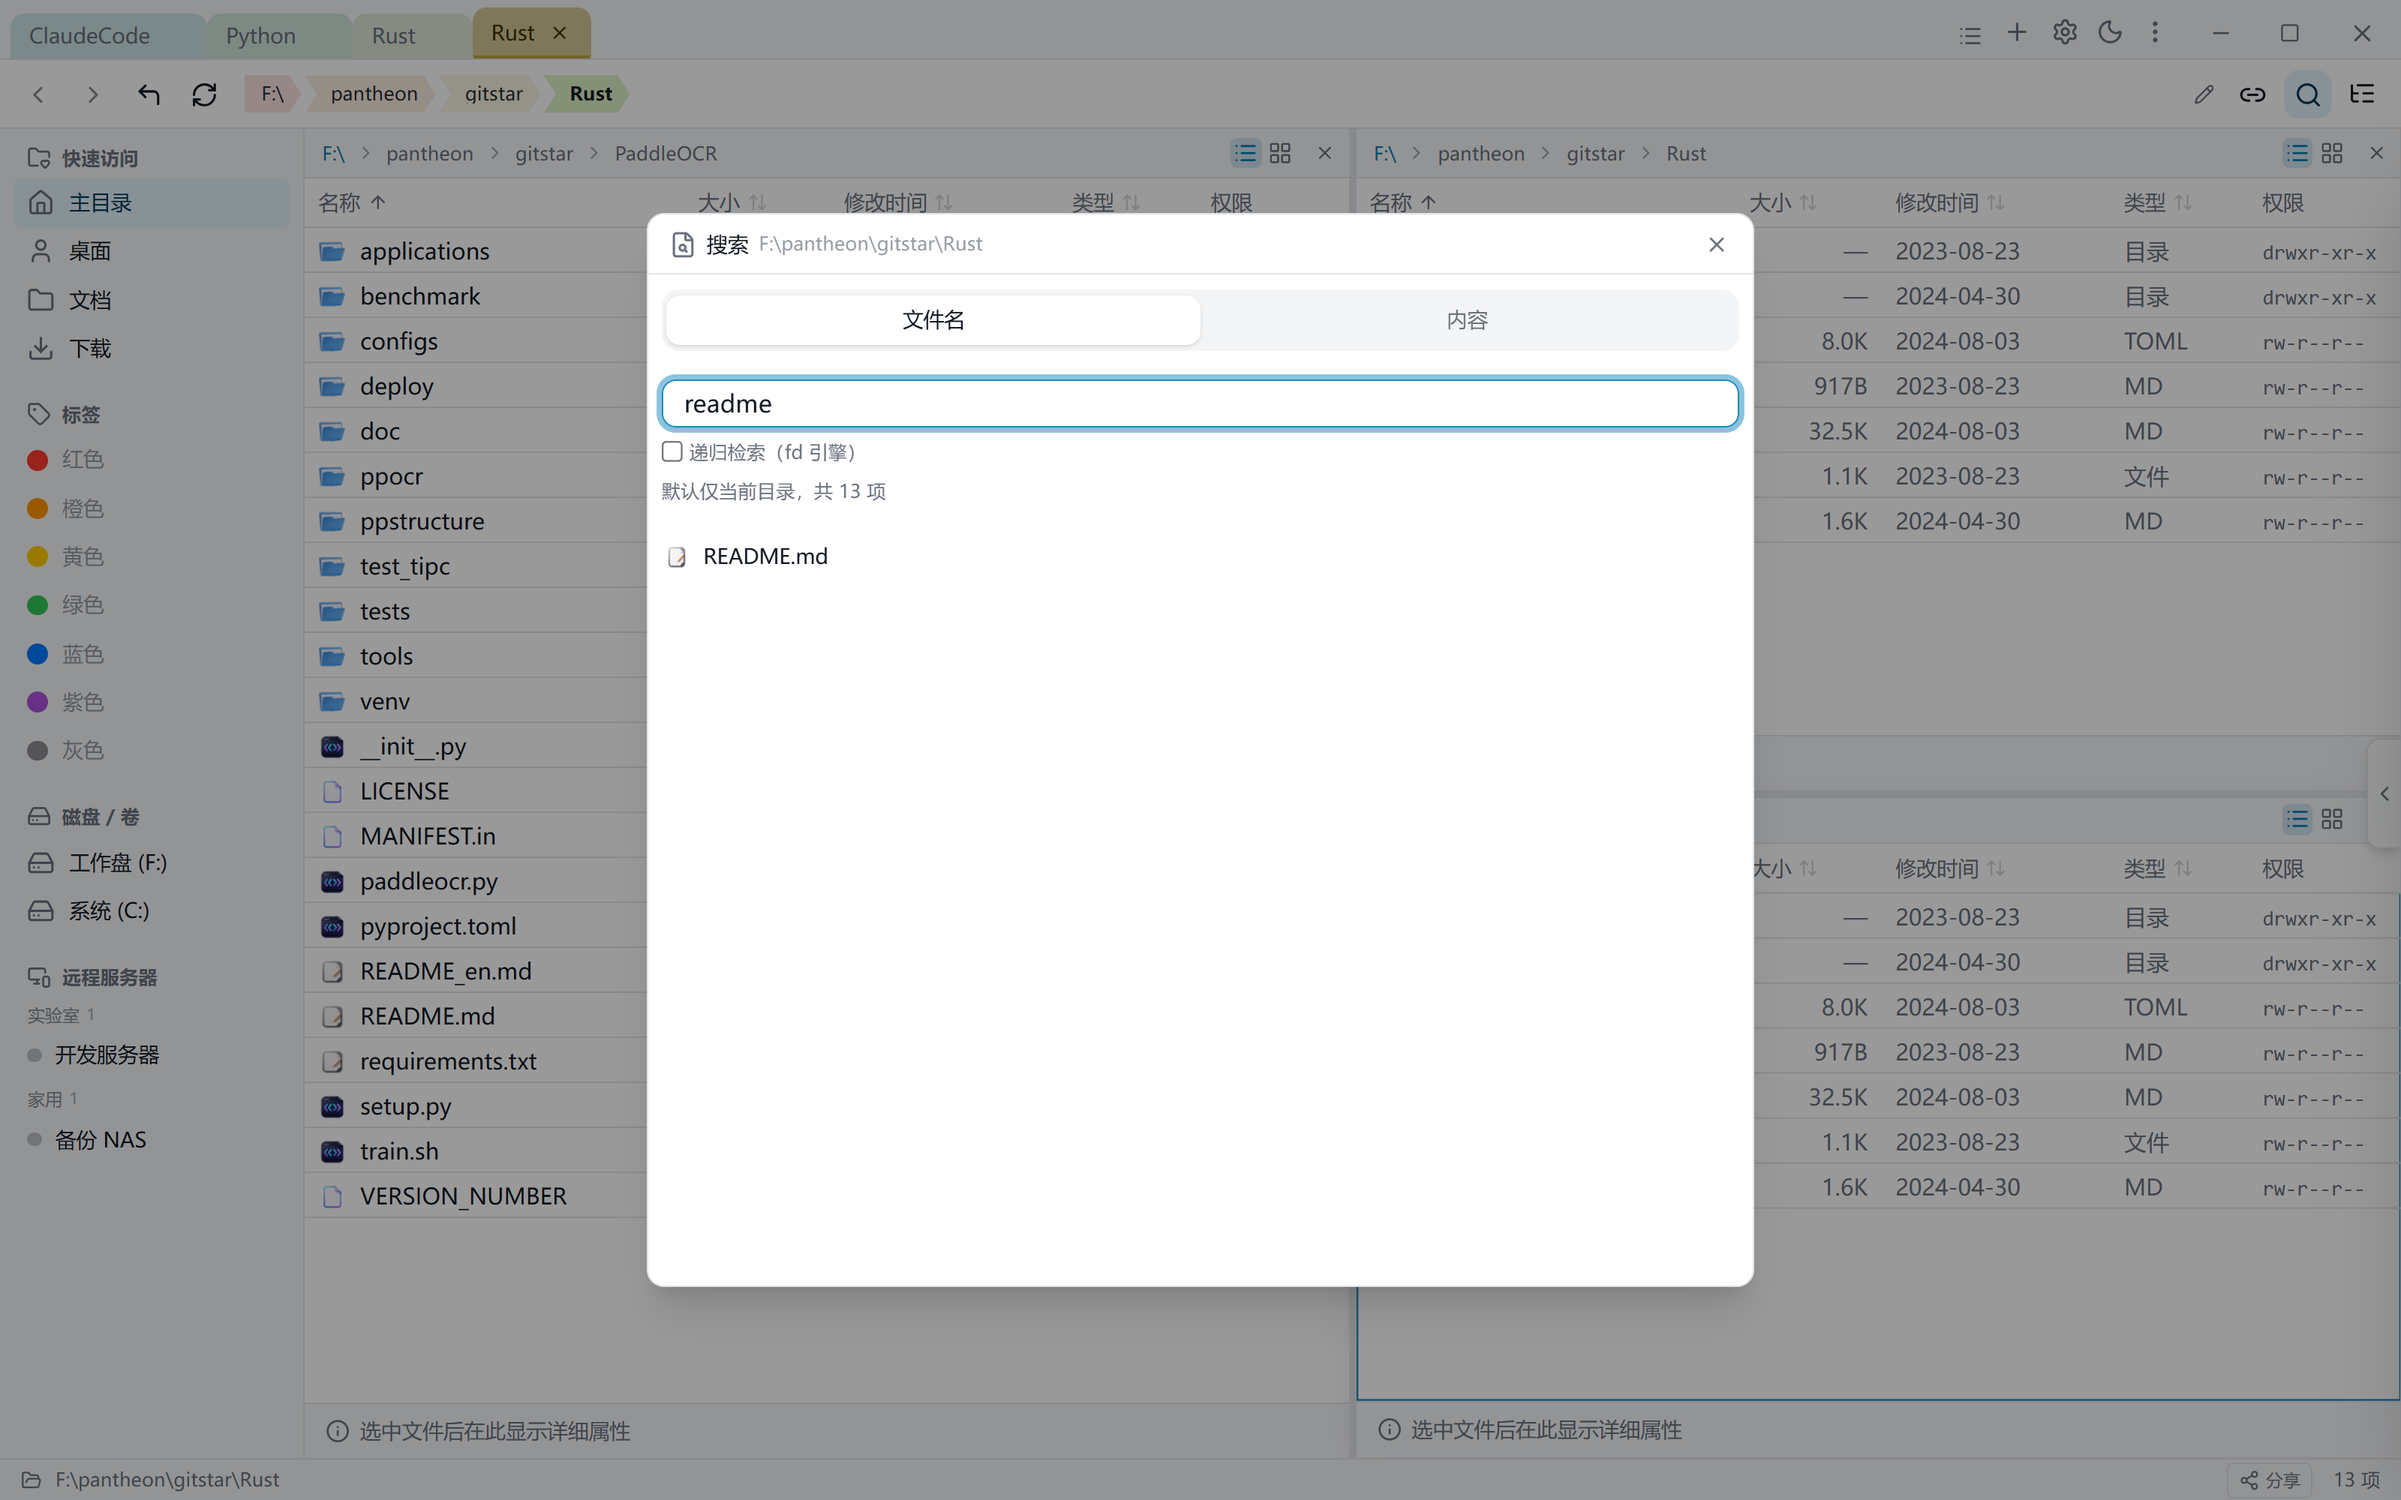
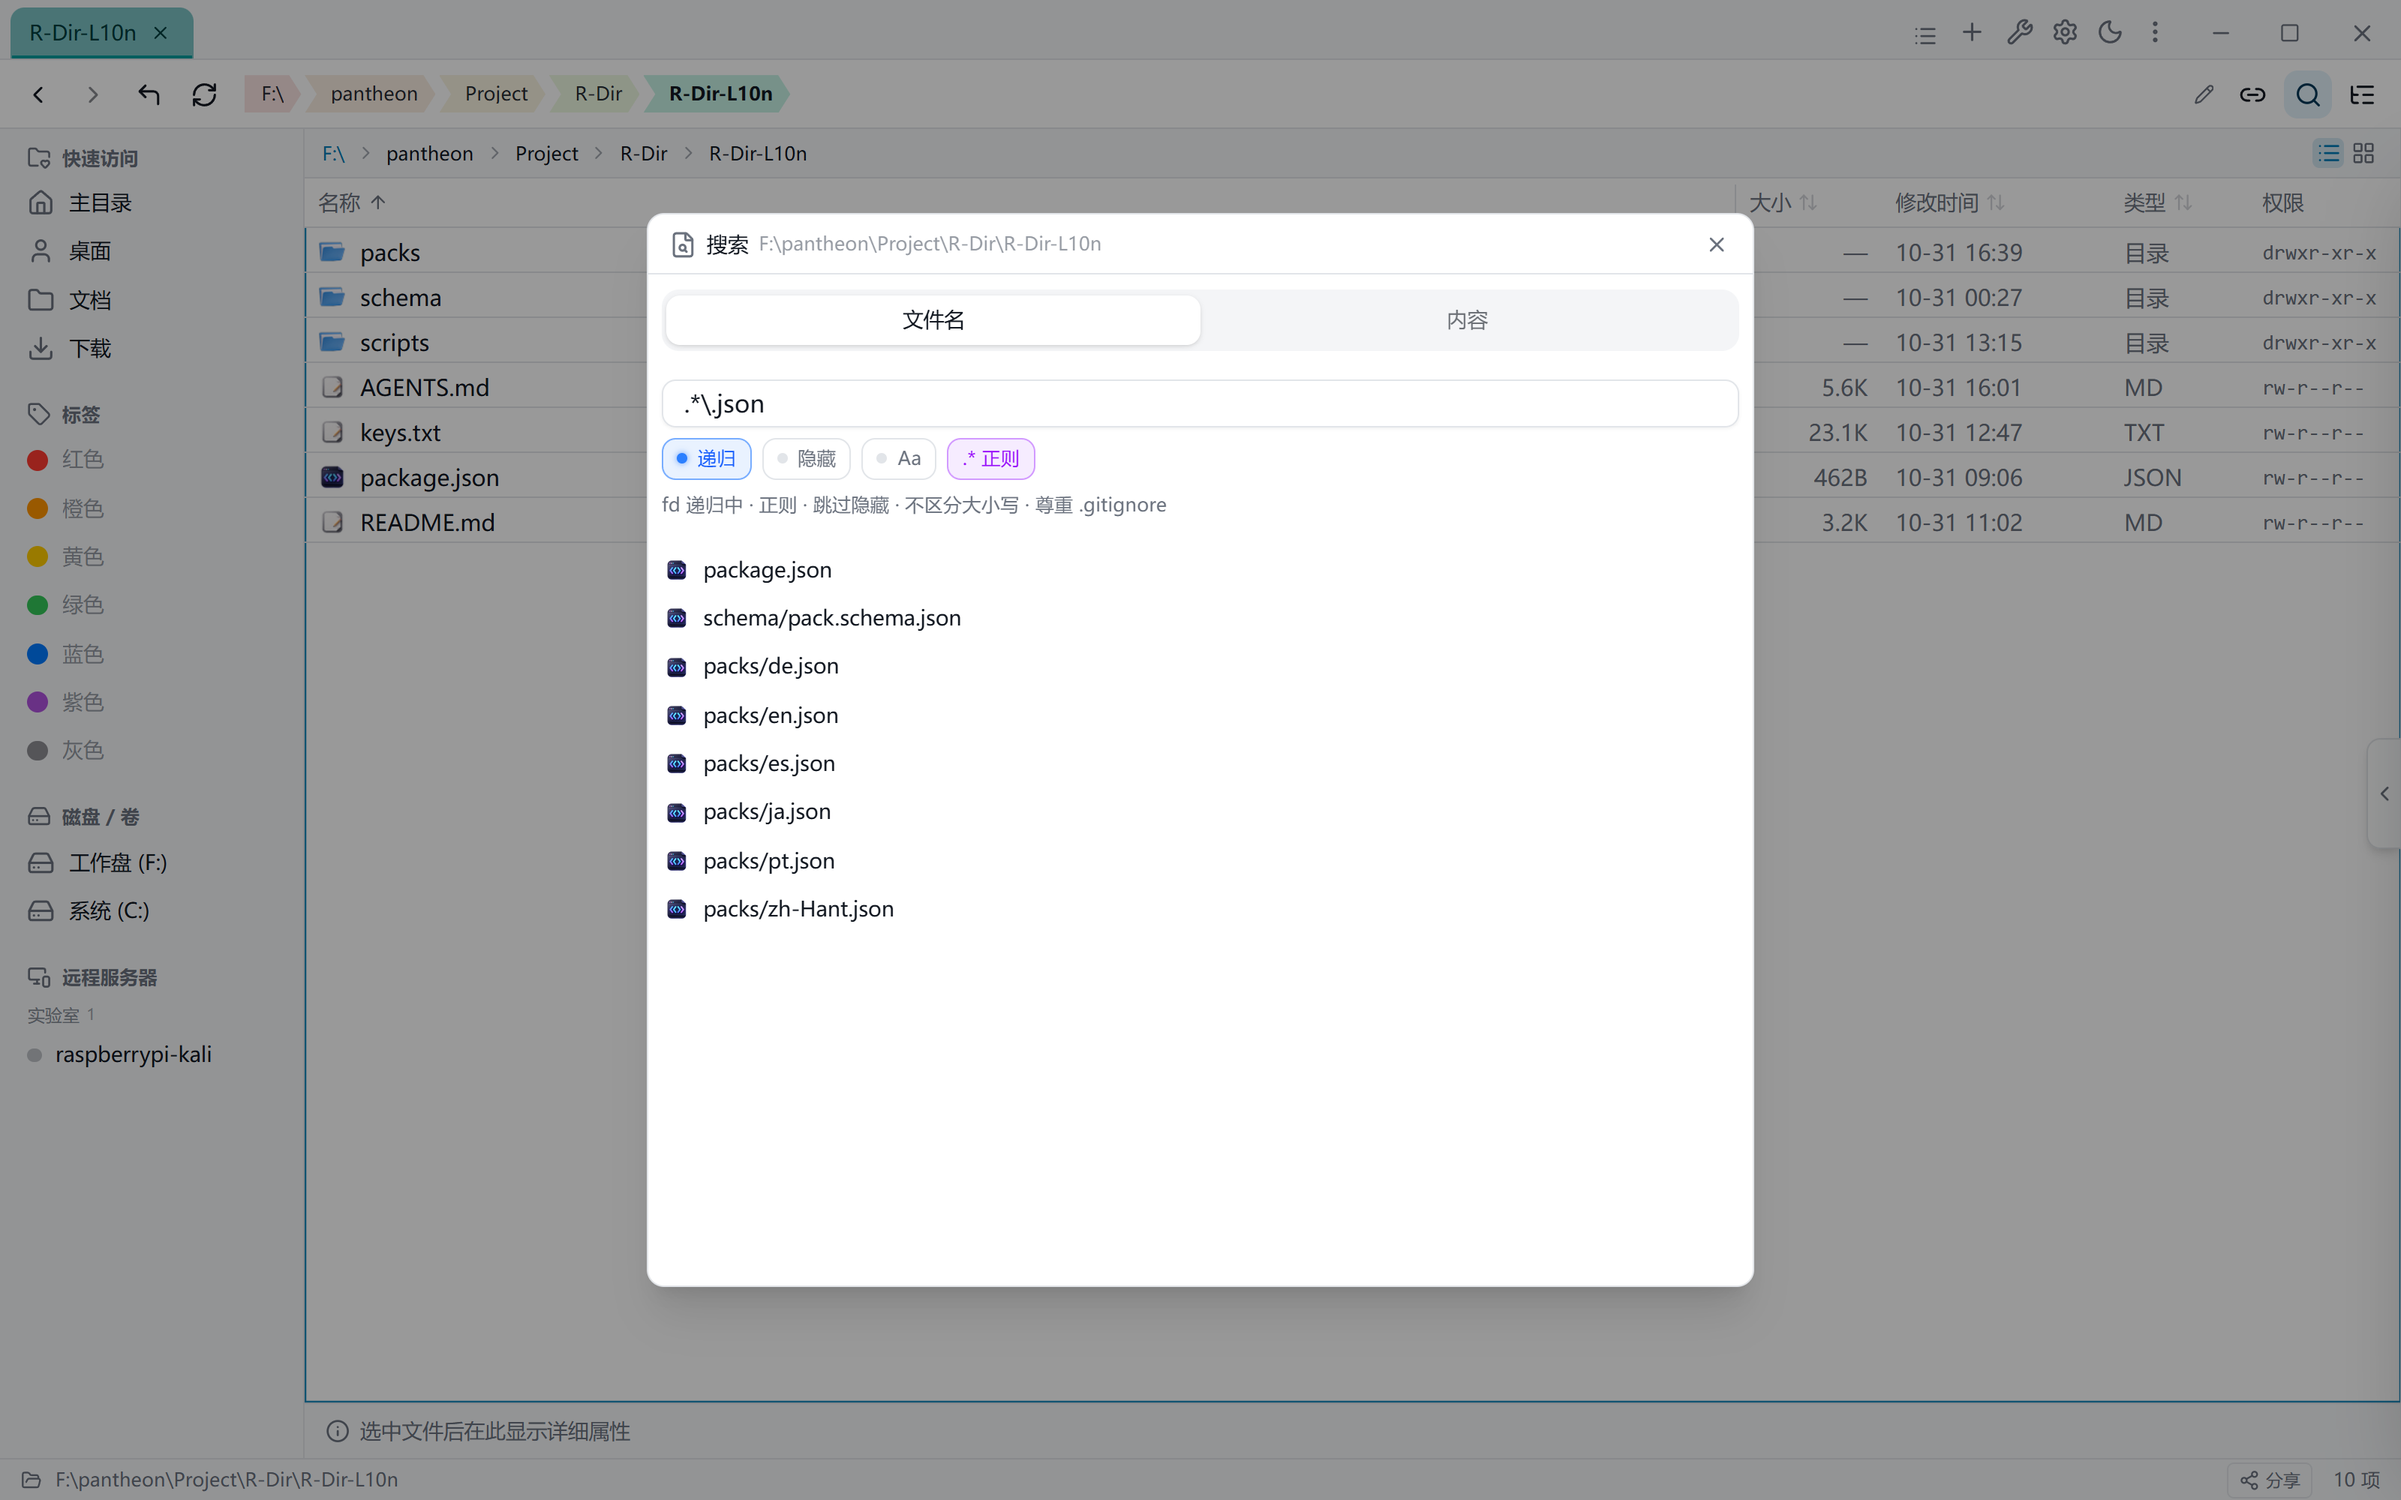
fix: 搜索截图更新为 v0.34 灯芯 UI——R-Dir-L10n 素材(文件名 .*.json 正则递归 / 内容搜「打开」),首页同步

diff --git a/site/shots.md b/site/shots.md
@@ -51,13 +51,13 @@ QuickJump 快速定位——列表聚焦时键入即搜，fzf 式子序列匹配
 
 ## 搜索
 
-![文件名搜索：当前层过滤，可切 fd 递归检索](/shots/09-search-panel.png)
+![文件名搜索：正则 + 递归灯点亮，检索 R-Dir-L10n 全部 .json 语言包](/shots/09-search-panel.png)
 
-文件名搜索——当前层即时过滤，勾选后走 fd 引擎递归（尊重 .gitignore）。⌨ `Ctrl+F`。
+文件名搜索——⌨ `Ctrl+F`，灯芯行点亮**递归**与**正则**，检索本项目 `R-Dir-L10n` 的 `.*\.json`：8 个语言包与 schema 全部命中，摘要行实时显示当前组合。
 
-![内容搜索：递归 + 行号 + 关键词高亮](/shots/10-search-content.png)
+![内容搜索：递归检索语言包，关键词「打开」行号 + 高亮](/shots/10-search-content.png)
 
-内容搜索——正则 / 大小写开关，行号点击定位，自动跳过二进制与超大文件。⌨ `Ctrl+Shift+F` 切内容搜索。
+内容搜索——⌨ `Ctrl+Shift+F` 切内容页签，递归检索语言包与文档中的「打开」：行号定位 + 关键词高亮，自动跳过二进制与超大文件。
 
 ## 右键菜单与快捷面板
 

diff --git a/site/index.md b/site/index.md
@@ -56,6 +56,6 @@ features:
 
 左右分屏：每个窗格独立拥有路径、历史、排序与选中状态，窗格头带独立面包屑路径条。
 
-![内容搜索——行号与关键词高亮](/shots/10-search-content.png)
+![内容搜索——R-Dir-L10n 语言包中检索「打开」，行号与关键词高亮](/shots/10-search-content.png)
 
 内容搜索：递归检索当前目录，行号定位 + 关键词高亮，双击即可用系统程序打开。
